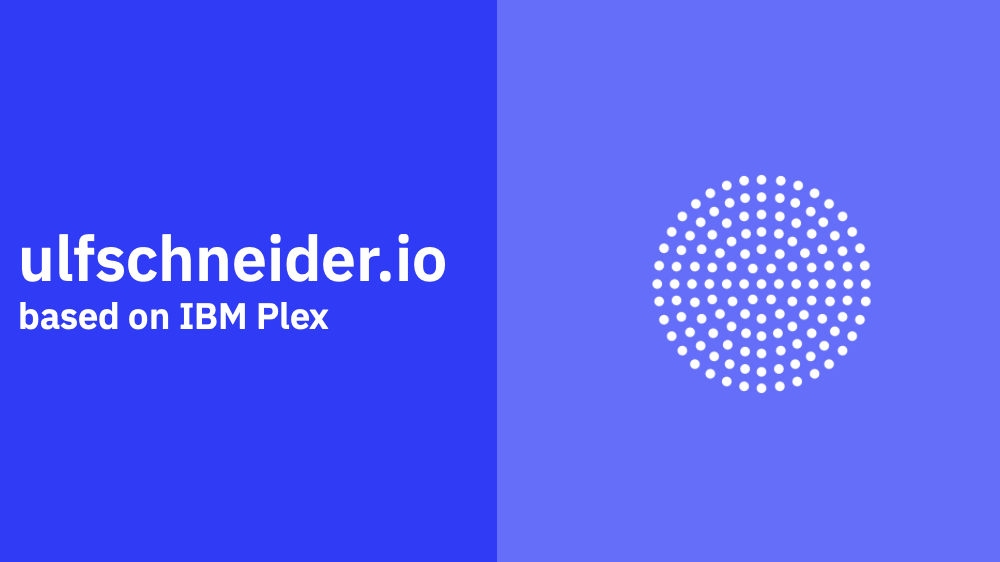
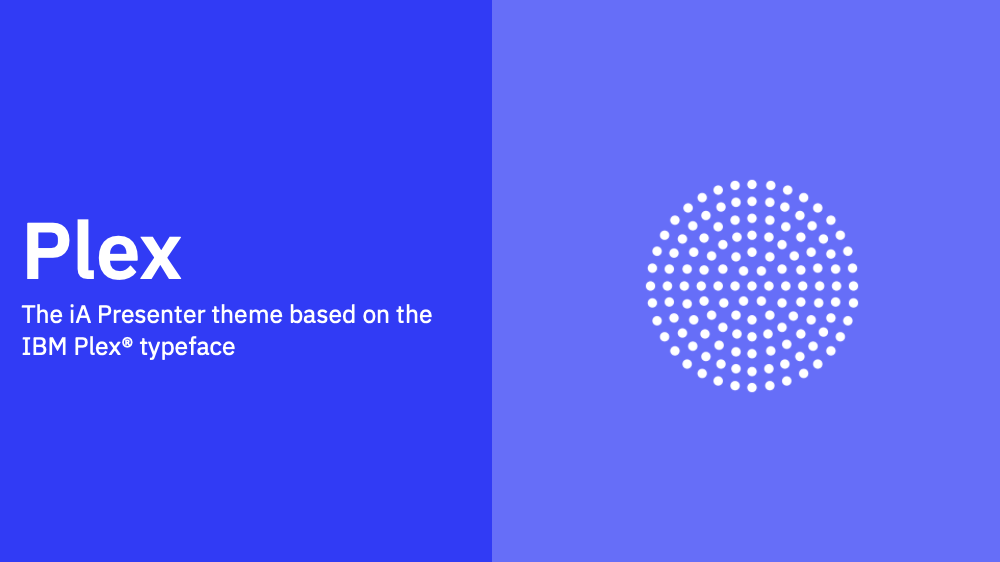
New export

Changed region(s): [[0.0, 0.0, 0.496, 1.0], [0.651, 0.3025, 0.868, 0.6957]]

diff --git a/content/assets/plex/index.html b/content/assets/plex/index.html
@@ -107,6 +107,9 @@
  </div> 
  <figure class="">
   <img src="media/IBMQuantum-Lab-Maika-Takita.webp" class=" image-opacity-50 position-center-center" />
+  <figcaption>
+   Image: https://newsroom.ibm.com/media-center?item=22083
+  </figcaption>
  </figure> 
 </div> 
 <div class="footnotes"></div> 
@@ -131,6 +134,9 @@
  </div> 
  <figure class="">
   <img src="media/MAS+above.webp" class=" image-opacity-50 position-center-center" />
+  <figcaption>
+   Image: https://newsroom.ibm.com/download/MAS%2Babove.jpg
+  </figcaption>
  </figure> 
 </div> 
 <div class="footnotes"></div> 
@@ -154,7 +160,10 @@
   </hgroup>
  </div> 
  <figure class="">
-  <img src="media/BrettPhaneuf1.webp" class=" image-opacity-50 position-center-center" />
+  <img src="media/BrettPhaneuf1.webp" class=" position-center-center" />
+  <figcaption>
+   Image: https://newsroom.ibm.com/media-center?item=21666
+  </figcaption>
  </figure> 
 </div> 
 <div class="footnotes"></div> 
@@ -305,8 +314,8 @@
    <li>click on <strong>+</strong> and then <strong>Create Theme…</strong></li> 
    <li>name the theme <strong>Plex</strong></li> 
    <li>right click on the theme and activate <strong>Show in Finder</strong></li> 
-   <li>delete all files in the new created theme folder</li> 
-   <li>copy the contents of the downloaded Plex theme folder into the folder</li> 
+   <li>delete all files in the newly created theme folder</li> 
+   <li>copy the contents of the downloaded plex theme folder into the folder</li> 
   </ul>
  </div> 
 </div> 

diff --git a/content/assets/plex/theme/README.md b/content/assets/plex/theme/README.md
@@ -1,3 +1,14 @@
 # Plex
 
-An iA Presenter theme based on the IBM Plex typeface.
+The iA Presenter theme based on the IBM Plex typeface.
+
+## Install the Plex theme
+
+- download the theme from https://github.com/ulfschneider/plex
+- open iA Presenter
+- go to **Settings** -> **Themes**
+- click on **+** and then **Create Theme…**
+- name the theme **Plex**
+- right click on the theme and activate **Show in Finder**
+- delete all files in the new created theme folder
+- copy the contents of the downloaded Plex theme folder into the folder
